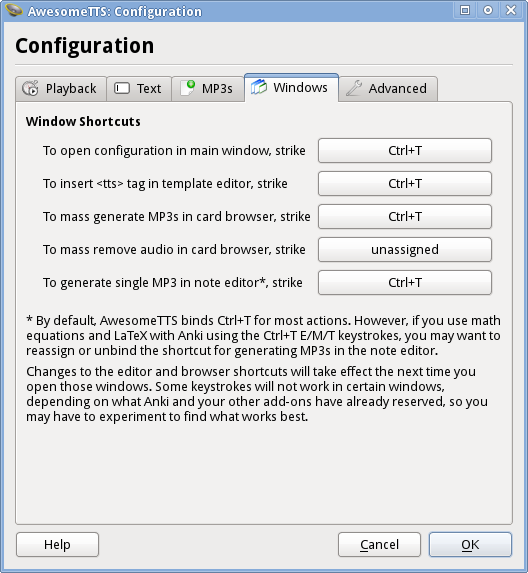
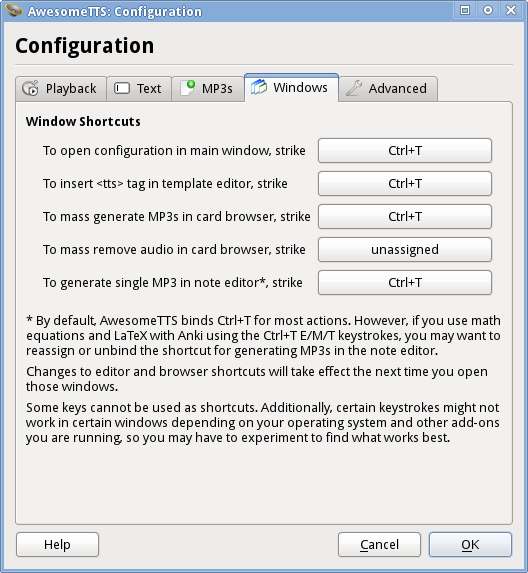
Expand blacklisted shortcut keys
Includes many more keys, including those that cause problems on OS X.
Updates screenshots and documentation. Adjusts caller code for the
configurator to detect backspace/delete/escape on its own (since these
are now blacklisted keys).

Changed region(s): [[0.0303, 0.623, 0.9394, 0.7714]]

diff --git a/addon/awesometts/gui/common.py b/addon/awesometts/gui/common.py
@@ -31,6 +31,7 @@ all carry a speaker icon (if supported by the desktop environment).
 __all__ = ['ICON', 'Action', 'Button', 'Filter']
 
 from PyQt4 import QtCore, QtGui
+from PyQt4.QtCore import Qt
 
 
 ICON = QtGui.QIcon(':/icons/speaker.png')
@@ -46,15 +47,15 @@ def key_event_combo(event):
     an event. When used by themselves or exclusively with modifiers,
     these keys cause various problems: gibberish strings returned from
     QKeySequence#toString() and in menus, inability to capture the
-    keystroke because the window manager does not forward it to Qt, and
+    keystroke because the window manager does not forward it to Qt,
     ambiguous shortcuts where order would matter (e.g. Ctrl + Alt would
     produce a different numerical value than Alt + Ctrl, because the
     key codes for Alt and Ctrl are different from the modifier flag
-    codes for Alt and Ctrl).
+    codes for Alt and Ctrl), and clashes with input navigation.
     """
 
     key = event.key()
-    if key in key_event_combo.BLACKLIST:
+    if key < 32 or key in key_event_combo.BLACKLIST:
         return None
 
     modifiers = event.modifiers()
@@ -62,12 +63,18 @@ def key_event_combo(event):
                      for flag in key_event_combo.MOD_FLAGS
                      if modifiers & flag)
 
-key_event_combo.MOD_FLAGS = [QtCore.Qt.AltModifier, QtCore.Qt.ControlModifier,
-                             QtCore.Qt.MetaModifier, QtCore.Qt.ShiftModifier]
+key_event_combo.MOD_FLAGS = [Qt.AltModifier, Qt.ControlModifier,
+                             Qt.MetaModifier, Qt.ShiftModifier]
 
-key_event_combo.BLACKLIST = [QtCore.Qt.Key_Alt, QtCore.Qt.Key_AltGr,
-                             QtCore.Qt.Key_Control, QtCore.Qt.Key_Meta,
-                             QtCore.Qt.Key_Mode_switch, QtCore.Qt.Key_Shift]
+key_event_combo.BLACKLIST = [
+    Qt.Key_Alt, Qt.Key_AltGr, Qt.Key_Backspace, Qt.Key_Backtab,
+    Qt.Key_CapsLock, Qt.Key_Control, Qt.Key_Delete, Qt.Key_Down, Qt.Key_End,
+    Qt.Key_Enter, Qt.Key_Equal, Qt.Key_Escape, Qt.Key_Home, Qt.Key_Insert,
+    Qt.Key_Left, Qt.Key_Meta, Qt.Key_Minus, Qt.Key_Mode_switch,
+    Qt.Key_NumLock, Qt.Key_PageDown, Qt.Key_PageUp, Qt.Key_Plus,
+    Qt.Key_Return, Qt.Key_Right, Qt.Key_ScrollLock, Qt.Key_Shift,
+    Qt.Key_Space, Qt.Key_Tab, Qt.Key_Underscore, Qt.Key_Up,
+]
 
 
 def key_combo_desc(combo):
@@ -172,7 +179,7 @@ class Button(QtGui.QPushButton, _Connector):
         else:
             self.setFixedWidth(20)
             self.setFixedHeight(20)
-            self.setFocusPolicy(QtCore.Qt.NoFocus)
+            self.setFocusPolicy(Qt.NoFocus)
 
         self.setShortcut(sequence)
         self.setToolTip("%s (%s)" % (tooltip, key_combo_desc(sequence))

diff --git a/addon/awesometts/gui/configurator.py b/addon/awesometts/gui/configurator.py
@@ -474,18 +474,24 @@ class Configurator(Dialog):
         note.setWordWrap(True)
 
         disclaimer = QtGui.QLabel(
-            "Changes to the editor and browser shortcuts will take effect "
-            "the next time you open those windows. Some keystrokes will not "
-            "work in certain windows, depending on what Anki and your other "
-            "add-ons have already reserved, so you may have to experiment to "
-            "find what works best."
+            "Changes to editor and browser shortcuts will take effect the "
+            "next time you open those windows."
         )
         disclaimer.setWordWrap(True)
+
+        disclaimer2 = QtGui.QLabel(
+            "Some keys cannot be used as shortcuts. Additionally, certain "
+            "keystrokes might not work in certain windows depending on your "
+            "operating system and other add-ons you are running, so you may "
+            "have to experiment to find what works best."
+        )
+        disclaimer2.setWordWrap(True)
 
         layout = QtGui.QVBoxLayout()
         layout.addWidget(group)
         layout.addWidget(note)
         layout.addWidget(disclaimer)
+        layout.addWidget(disclaimer2)
         layout.addStretch()
 
         tab = QtGui.QWidget()
@@ -725,19 +731,21 @@ class Configurator(Dialog):
         if not buttons:
             return super(Configurator, self).keyPressEvent(key_event)
 
-        combo = key_event_combo(key_event)
+        key = key_event.key()
 
-        if not combo:
-            return
-
-        if combo == QtCore.Qt.Key_Escape:
+        if key == QtCore.Qt.Key_Escape:
             for button in buttons:
                 button.awesometts_pending = False
                 button.setText(key_combo_desc(button.awesometts_value))
             return
 
-        if combo in [QtCore.Qt.Key_Backspace, QtCore.Qt.Key_Delete]:
+        if key in [QtCore.Qt.Key_Backspace, QtCore.Qt.Key_Delete]:
             combo = None
+
+        else:
+            combo = key_event_combo(key_event)
+            if not combo:
+                return
 
         for button in buttons:
             button.awesometts_pending = combo
